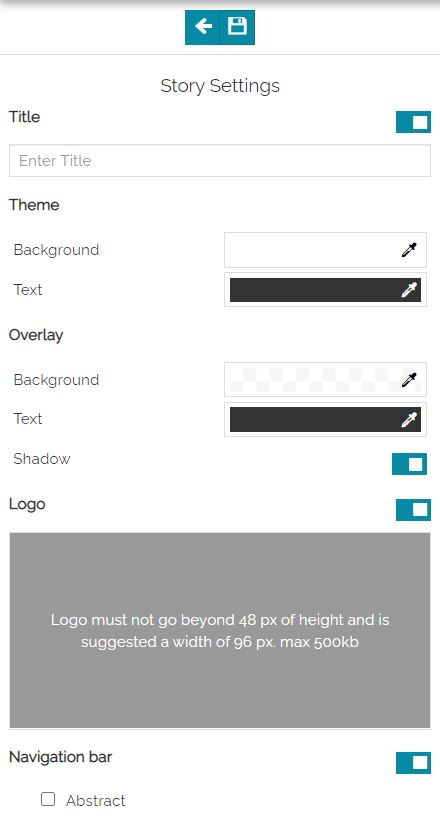
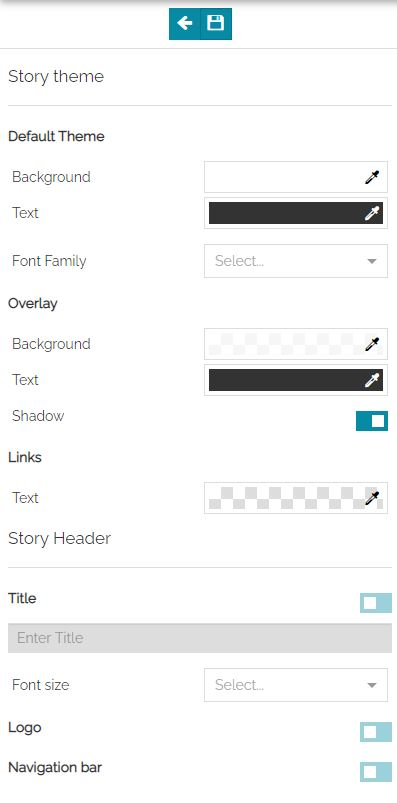
Settings and Paragraph

diff --git a/docs/user-guide/story-setting.md b/docs/user-guide/story-setting.md
@@ -1,28 +1,42 @@
-
- 
-The Story Settings panel allows the editor to configure which additional components should appear to end users in the story view. The **Title**, a **Logo** and the **Navigation Toolbar**, if properly configured, will appear in the top bar of the story itself while the colors of the different components in the story can be customized in **Default Theme** and **Overlay** section of the story settings.
+The Story Settings panel allows the editor to customize the theme of the story and configure which additional components should appear to end users in the story view.
 
 The Story settings panel is available in Edit Mode and it can be opened by clicking on the **Settings** button <img src="../img/button/setting-button.jpg" class="ms-docbutton"/>.
 
-
-
 <img src="../img/story-setting/story-setting-1.jpg" class="ms-docimage" style="max-width:400px"/>
 
-The editor can enable or disable and edit the following components:
+## Story Theme
 
-* The **Title** of the story, the default value is the title given to the story's resource in MapStore
+The editor can customize the different components of the story through the following sections:
 
-* The **Theme** to choose the default background and text color of the whole story: clicking on the *Change Color* button <img src="../img/button/color-picker.jpg" class="ms-docbutton"/> a color picker appears to allow selecting the desired color: 
+* The **Theme** to choose the default background and text color and the default font of the whole story: clicking on the *Change Color* button <img src="../img/button/color-picker.jpg" class="ms-docbutton"/> a color picker appears to allow selecting the desired color: 
 
 <img src="../img/story-setting/theme.gif" class="ms-docimage"/>
 
-* The **Overlay** to choose the default background and text color of the *Contents* present in the [Title Section](title-section.md#content) and in the [Immersive Section](immersive-section.md#content) as well: clicking on the *Change Color* button <img src="../img/button/color-picker.jpg" class="ms-docbutton"/> a color picker appears to allow selecting the desired color:
+ * The *Font Family* to choose the default text font present in the whole story: clicking on the search bar a dropdown menu opens to allow selecting the desired font (*Inherit*, *Arial*, *Georgia*, *Impact*, *Tahoma*, *Time New Roman*, *Verdana*): 
+
+<img src="../img/story-setting/font_family.gif" class="ms-docimage"/>
+
+* The **Overlay** to choose the default background and text color of the *contents* present in the [Title Section](title-section.md#content) and in the [Immersive Section](immersive-section.md#content) as well: clicking on the *Change Color* button <img src="../img/button/color-picker.jpg" class="ms-docbutton"/> a color picker appears to allow selecting the desired color:
 
 <img src="../img/story-setting/overlay.gif" class="ms-docimage"/>
 
-* The **Shadow** of the *Content* present in the [Title Section](title-section.md#content) and in the [Immersive Section](immersive-section.md#content):
+* The *Shadow* of the *contents* present in the [Title Section](title-section.md#content) and in the [Immersive Section](immersive-section.md#content): enabling or disabling the shadow:
 
 <img src="../img/story-setting/shadow.gif" class="ms-docimage"/>
+
+* The **Links** to choose the default color of the hyperlink that may be present in the *Text Contents*: clicking on the *Change Color* button <img src="../img/button/color-picker.jpg" class="ms-docbutton"/> a color picker appears to allow selecting the desired color:
+
+<img src="../img/story-setting/links.gif" class="ms-docimage"/>
+
+## Story Header
+
+In the top bar of the story, if the editor enables them, the following components are added:
+
+<img src="../img/story-setting/story_header.jpg" class="ms-docimage" width="400px"/>
+
+* The **Title** of the story, the default value is the title given to the story's resource in MapStore.
+
+* The *Font Size* of the title: clicking on the search bar a dropdown menu opens to allow selecting the desired size (*14 px*, *16 px*, *18 px*, *24 px*, *28 px*).
 
 * The story **Logo**, that can be for example an image that represents your organization or something connected to the story itself.
 

diff --git a/docs/user-guide/paragraph-section.md b/docs/user-guide/paragraph-section.md
@@ -13,15 +13,19 @@ The Paragraph Section allows to insert a textual content to the story. The story
 
 ## Text Content
 
-By default, as soon as a Paragraph is added, an empty text content is already present as a placeholder:
+By default, as soon as a Paragraph is added, an empty text content is already present as a placeholder and the content toolbar allows to:
 
 <img src="../img/paragraph-section/paragraph-section.jpg" class="ms-docimage"/>
 
-With a click on the text area, it is possible to write the text and customize it through the [Text Editor Toolbar](text-editor-toolbar.md).  A possible result of adding and formatting the text can be the following: 
+* Change the size of the text content: clicking on the **Change Size** button <img src="../img/button/change_size2.jpg" class="ms-docbutton"/> a dropdown menu appears to allow selecting between *Small*, *Medium* or *Full* size: 
 
-<img src="../img/paragraph-section/p-text-content.jpg" class="ms-docimage"/>
+<img src="../img/paragraph-section/paragraphe-size.jpg" class="ms-docimage"/>
 
-The user can delete the text content with the Remove button  <img src="../img/button/remove2.jpg" class="ms-docbutton"/>.
+* Delete the *Paragraph  Section* through the **Remove** button <img src="../img/button/remove2.jpg" class="ms-docbutton"/>
+
+The editor can write a test clicking on the text content and customize it through the [Text Editor Toolbar](text-editor-toolbar.md). A possible result of adding and formatting the text can be the following:
+
+<img src="../img/paragraph-section/text_content.jpg" class="ms-docimage"/>
 
 ## Media Content
 
@@ -50,3 +54,5 @@ A map added inside the paragraph section can be customized through the [Map Cont
 Adding a web page content, the Web Page Windows opens allowing the user to add the URL of an extenal web page. A web page added inside the paragraph section can be customized through the [Web Page Content Toolbar](content-web-toolbar.md). Below is an example of a medium, center-aligned web content, just below a map one:
 
 <img src="../img/paragraph-section/map-web.jpg" class="ms-docimage"/>
+
+
